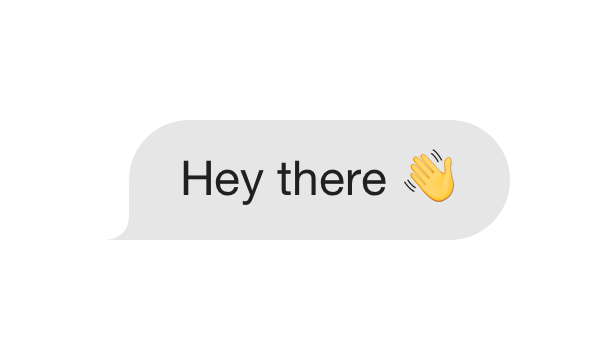
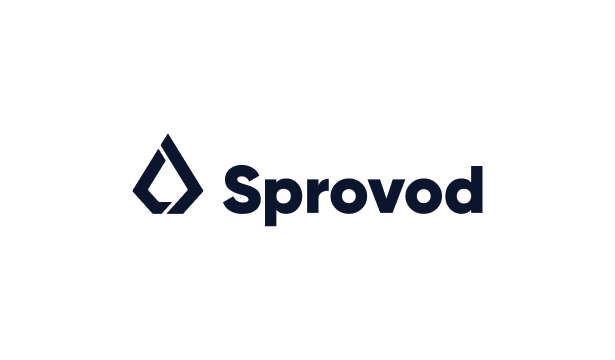
Update website

Changed region(s): [[0.1854, 0.3361, 0.8341, 0.6722]]

diff --git a/css/styles.css b/css/styles.css
@@ -1,76 +1,56 @@
-:root { font-size: 1.125rem; }
-@media (min-width: 600px) { :root { font-size: 1.5rem; } }
-@media (min-width: 900px) { :root { font-size: 1.75rem; } }
-@media (min-width: 1200px) { :root { font-size: 2rem; } }
-*, *:before, *:after {
-  margin: 0;
-  padding: 0;
-  box-sizing: border-box;
-}
 body {
   display: flex;
   flex-direction: column;
+  justify-content: center;
   align-items: center;
-  min-width: 100vw;
-  min-height: 100vh;
-  font-family: "Helvetica Neue", Helvetica, Arial, sans-serif;
+  width: auto;
+  height: 100vh;
+  padding: 0;
+  margin: 0;
+}
+
+.main {
+  display: flex;
+  flex-direction: column;
+  justify-content: center;
+  align-items: center;
+  gap: 24px;
+  font-family: "Inter", sans-serif;
+  font-size: 24px;
+  font-optical-sizing: auto;
+  font-style: normal;
+  font-weight: 600;
+  color: #a5a5a5;
+  text-align: center;
   background: #FFF;
+  padding: 16px;
 }
-.messages {
-  overflow: auto;
-  width: 100vw;
-  max-height: 100vh;
-  padding: 1rem .9rem;
+
+.main img {
+  max-width: 75vw;
+  max-height: 85vh;
 }
-.bubble {
-  overflow: hidden;
-  display: inline-block;
-  margin: 0 0 .125rem 0;
-  padding: .5rem .85rem;
-  line-height: 1.25rem;
-  border-radius: 1.25rem;
-  transform-origin: 0 100%;
-  vertical-align: middle;
-  transition: border-radius .25s ease-out .075s;
+
+.main p {
+  padding: 0;
+  margin: 0;
 }
-.bubble.left.cornered {
-  border-bottom-left-radius: 0;
+
+.badge span {
+  height: fit-content;
+  background-color: #2747AF;
+  font-size: 14px;
+  color: #FFF;
+  padding: 10px 25px;
+  border-radius: 8px;
 }
-.bubble.left {
-  background: rgba(206,206,206,0.50);
-}
-.bubble:after {
-  content: "";
-  position: absolute;
-  bottom: 0;
-  left: -.5rem;
-  width: .5rem;
-  height: .5rem;
-  background-image: url(../img/corner.svg);
-  background-size: .5rem .5rem;
-  background-position: .5rem 0;
-  background-repeat: no-repeat;
-  transition: background-position .15s ease-in;
-}
-.bubble.cornered:after {
-  background-position: 0 0;
-}
-.bubble span {
-  display: block;
-}
-.bubble span.message {
-  opacity: 0;
-}
-.bubble a {
-  color: #0076FF;
-}
-.bubble .loading {
-  position: absolute;
-  width: 2.25rem;
-  font-size: 2rem;
-  line-height: 1rem;
-}
-.bubble .loading b {
-  display: inline-block;
-  color: rgba(0,0,0,.5);
+
+@media (max-width: 768px) {
+  .main {
+    font-size: 18px;
+  }
+
+  .badge span {
+    font-size: 12px;
+  }
 }

diff --git a/index.html b/index.html
@@ -1,10 +1,10 @@
 <!doctype html>
-<title>Sprovod | Vaš partner u poslovanju</title>
+<title>Sprovod | Dolazi uskoro!</title>
 <meta charset="utf-8">
 <meta name="viewport" content="width=device-width, initial-scale=1, maximum-scale=1" />
 <meta name="description" content="Platforma za vođenje i promociju pogrebnih društva. Dolazi uskoro!" />
 <meta property="og:site_name" content="sprovod.hr" />
-<meta property="og:title" content="Sprovod | Vaš partner u poslovanju" />
+<meta property="og:title" content="Sprovod | Dolazi uskoro!" />
 <meta property="og:description" content="Platforma za vođenje i promociju pogrebnih društva. Dolazi uskoro!" />
 <meta property="og:type" content="website" />
 <meta property="og:url" content="http://sprovod.hr" />
@@ -15,7 +15,17 @@
 <link rel="icon" type="image/png" href="img/favicon.png" />
 <link rel="apple-touch-icon" href="img/apple-touch-icon.png" />
 <link rel="stylesheet" type="text/css" media="screen" href="css/styles.css" />
+<link rel="preconnect" href="https://fonts.googleapis.com">
+<link rel="preconnect" href="https://fonts.gstatic.com" crossorigin>
+<link href="https://fonts.googleapis.com/css2?family=Inter:wght@100..900&display=swap" rel="stylesheet">
 <body>
-  <h1>Hello world!</h1>
-  <script src="js/scripts.js"></script>
+  <div class="main">
+    <div class="badge">
+      <span>Dolazi uskoro!</span>
+    </div>
+    <img src="img/logo.png" width="300" alt="Image of the brand logo"/>
+    <p>Platforma za vođenje i promociju pogrebnih društva</p>
+    <div>
+    </div>
+  </div>
 </body>
